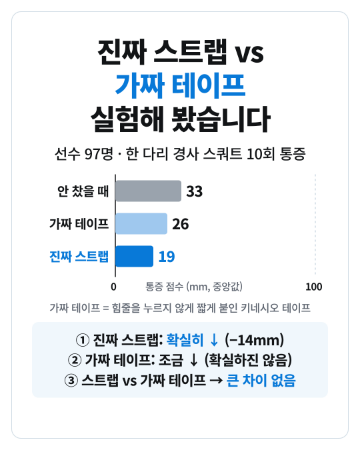
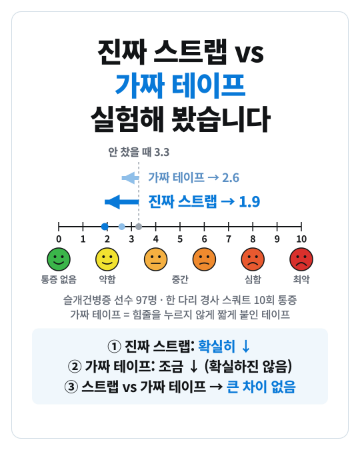
Patellar strap card 03: 0-10 face pain scale with arrows from no-strap to strap/placebo
Claude-Session: https://claude.ai/code/session_01GjYRY9i7LLGWcysU9DHVMw

Changed region(s): [[0.1222, 0.3111, 0.9167, 0.9022]]

diff --git a/content/patellar-strap-runners/source/charts/vas.html b/content/patellar-strap-runners/source/charts/vas.html
@@ -1,25 +1,30 @@
 <!doctype html><html lang="ko"><head><meta charset="utf-8"><style>
 @font-face{font-family:'Noto Sans KR';src:url('../../../../templates/fonts/NotoSansKR-VF.ttf');font-weight:100 900}
 html,body{margin:0;padding:0;background:#fff}
-.c{position:relative;width:888px;height:400px;font-family:'Noto Sans KR',sans-serif;color:#121416;overflow:hidden}
+.c{position:relative;width:888px;height:440px;font-family:'Noto Sans KR',sans-serif;color:#121416;overflow:hidden}
 .t{position:absolute;letter-spacing:-.03em;line-height:1.2;white-space:nowrap}
+.n{top:270px;width:60px;text-align:center;font-size:28px;font-weight:700}
+.k{top:392px;width:160px;text-align:center;font-size:28px;font-weight:650;color:#5e6570}
 svg{position:absolute;left:0;top:0}
 </style></head><body><div class="c">
-<!-- 0~100mm 축: x 250~850 (6px/mm). 값 = de Vries 2016 Table 2, 한 다리 경사 스쿼트 10회 중앙값 -->
-<svg width="888" height="400" viewBox="0 0 888 400">
-  <line x1="250" y1="22" x2="250" y2="330" stroke="#121416" stroke-width="3"/>
-  <line x1="850" y1="22" x2="850" y2="330" stroke="#d0dce5" stroke-width="3" stroke-dasharray="6 8"/>
-  <rect x="250" y="40"  width="198" height="64" rx="8" fill="#9aa3ad"/>
-  <rect x="250" y="138" width="156" height="64" rx="8" fill="#9fc8ee"/>
-  <rect x="250" y="236" width="114" height="64" rx="8" fill="#0879d8"/>
+<!-- 0~10 얼굴 통증 척도 (de Vries 2016 Table 2 VAS 0~100mm 중앙값 ÷10): 안 참 3.3, 가짜 테이프 2.6, 스트랩 1.9 -->
+<svg width="888" height="440" viewBox="0 0 888 440">
+ <defs>
+  <marker id="hb" viewBox="0 0 10 10" refX="10" refY="5" markerWidth="3.2" markerHeight="3.2" orient="auto"><path d="M0,0 L10,5 L0,10 z" fill="#0879d8"/></marker>
+  <marker id="hl" viewBox="0 0 10 10" refX="10" refY="5" markerWidth="3.2" markerHeight="3.2" orient="auto"><path d="M0,0 L10,5 L0,10 z" fill="#8fbfe9"/></marker>
+ </defs>
+ <line x1="320.2" y1="56" x2="320.2" y2="250" stroke="#9aa3ad" stroke-width="3" stroke-dasharray="7 7"/>
+ <line x1="320.2" y1="104" x2="269.3" y2="104" stroke="#8fbfe9" stroke-width="12" marker-end="url(#hl)"/>
+ <line x1="320.2" y1="176" x2="218.3" y2="176" stroke="#0879d8" stroke-width="14" marker-end="url(#hb)"/>
+ <line x1="80.0" y1="250" x2="808.0" y2="250" stroke="#121416" stroke-width="4"/>
+ <line x1="80.0" y1="236" x2="80.0" y2="264" stroke="#121416" stroke-width="3"/><line x1="152.8" y1="236" x2="152.8" y2="264" stroke="#121416" stroke-width="3"/><line x1="225.6" y1="236" x2="225.6" y2="264" stroke="#121416" stroke-width="3"/><line x1="298.4" y1="236" x2="298.4" y2="264" stroke="#121416" stroke-width="3"/><line x1="371.2" y1="236" x2="371.2" y2="264" stroke="#121416" stroke-width="3"/><line x1="444.0" y1="236" x2="444.0" y2="264" stroke="#121416" stroke-width="3"/><line x1="516.8" y1="236" x2="516.8" y2="264" stroke="#121416" stroke-width="3"/><line x1="589.6" y1="236" x2="589.6" y2="264" stroke="#121416" stroke-width="3"/><line x1="662.4" y1="236" x2="662.4" y2="264" stroke="#121416" stroke-width="3"/><line x1="735.2" y1="236" x2="735.2" y2="264" stroke="#121416" stroke-width="3"/><line x1="808.0" y1="236" x2="808.0" y2="264" stroke="#121416" stroke-width="3"/>
+ <circle cx="320.2" cy="250" r="10" fill="#9aa3ad"/>
+ <circle cx="269.3" cy="250" r="10" fill="#8fbfe9"/>
+ <circle cx="218.3" cy="250" r="11" fill="#0879d8"/>
+ <g transform="translate(80.0,348)"><circle r="34" fill="#3BB54A" stroke="#121416" stroke-width="3"/><circle cx="-11" cy="-8" r="4" fill="#121416"/><circle cx="11" cy="-8" r="4" fill="#121416"/><path d="M-14,8 Q0,20 14,8" fill="none" stroke="#121416" stroke-width="3.5" stroke-linecap="round"/></g><g transform="translate(225.6,348)"><circle r="34" fill="#F2E230" stroke="#121416" stroke-width="3"/><circle cx="-11" cy="-8" r="4" fill="#121416"/><circle cx="11" cy="-8" r="4" fill="#121416"/><path d="M-14,10 Q0,18 14,10" fill="none" stroke="#121416" stroke-width="3.5" stroke-linecap="round"/></g><g transform="translate(371.2,348)"><circle r="34" fill="#F5B041" stroke="#121416" stroke-width="3"/><circle cx="-11" cy="-8" r="4" fill="#121416"/><circle cx="11" cy="-8" r="4" fill="#121416"/><path d="M-13,12 L13,12" fill="none" stroke="#121416" stroke-width="3.5" stroke-linecap="round"/></g><g transform="translate(516.8,348)"><circle r="34" fill="#EF8A2E" stroke="#121416" stroke-width="3"/><circle cx="-11" cy="-8" r="4" fill="#121416"/><circle cx="11" cy="-8" r="4" fill="#121416"/><path d="M-13,14 Q0,8 13,14" fill="none" stroke="#121416" stroke-width="3.5" stroke-linecap="round"/></g><g transform="translate(662.4,348)"><circle r="34" fill="#E8592F" stroke="#121416" stroke-width="3"/><circle cx="-11" cy="-8" r="4" fill="#121416"/><circle cx="11" cy="-8" r="4" fill="#121416"/><path d="M-14,16 Q0,4 14,16" fill="none" stroke="#121416" stroke-width="3.5" stroke-linecap="round"/></g><g transform="translate(808.0,348)"><circle r="34" fill="#D9302C" stroke="#121416" stroke-width="3"/><circle cx="-11" cy="-8" r="4" fill="#121416"/><circle cx="11" cy="-8" r="4" fill="#121416"/><path d="M-15,18 Q0,2 15,18" fill="none" stroke="#121416" stroke-width="3.5" stroke-linecap="round"/></g>
 </svg>
-<div class="t" style="right:658px;top:50px;font-size:38px;font-weight:700">안 찼을 때</div>
-<div class="t" style="right:658px;top:148px;font-size:38px;font-weight:700">가짜 테이프</div>
-<div class="t" style="right:658px;top:246px;font-size:38px;font-weight:800;color:#0879d8">진짜 스트랩</div>
-<div class="t" style="left:462px;top:46px;font-size:44px;font-weight:800">33</div>
-<div class="t" style="left:420px;top:144px;font-size:44px;font-weight:800">26</div>
-<div class="t" style="left:378px;top:242px;font-size:44px;font-weight:850;color:#0879d8">19</div>
-<div class="t" style="left:236px;top:340px;font-size:30px;font-weight:700">0</div>
-<div class="t" style="left:820px;top:340px;font-size:30px;font-weight:700">100</div>
-<div class="t" style="left:340px;top:340px;font-size:30px;font-weight:500;color:#5e6570">통증 점수 (mm, 중앙값)</div>
+<div class="t" style="left:170.2px;width:300px;text-align:center;top:6px;font-size:32px;font-weight:750;color:#5e6570">안 찼을 때 3.3</div>
+<div class="t" style="left:348.2px;top:80px;font-size:36px;font-weight:700;color:#5a8fc4">가짜 테이프 → 2.6</div>
+<div class="t" style="left:348.2px;top:148px;font-size:44px;font-weight:850;color:#0879d8">진짜 스트랩 → 1.9</div>
+<div class="t n" style="left:50.0px">0</div><div class="t n" style="left:122.8px">1</div><div class="t n" style="left:195.6px">2</div><div class="t n" style="left:268.4px">3</div><div class="t n" style="left:341.2px">4</div><div class="t n" style="left:414.0px">5</div><div class="t n" style="left:486.8px">6</div><div class="t n" style="left:559.6px">7</div><div class="t n" style="left:632.4px">8</div><div class="t n" style="left:705.2px">9</div><div class="t n" style="left:778.0px">10</div><div class="t k" style="left:0.0px">통증 없음</div><div class="t k" style="left:145.6px">약함</div><div class="t k" style="left:364.0px">중간</div><div class="t k" style="left:582.4px">심함</div><div class="t k" style="left:728.0px">최악</div>
 </div></body></html>

diff --git a/content/patellar-strap-runners/source/03.html b/content/patellar-strap-runners/source/03.html
@@ -27,7 +27,7 @@ h1,p{margin:0;text-align:center}
 .flow{font-size:42px;font-weight:750;line-height:1.3;letter-spacing:-.03em}
 .arrow{font-size:34px;font-weight:800;line-height:1.05;color:var(--blue)}
 .box{background:var(--tint);border-radius:20px;padding:32px 40px;width:888px}
-</style></head><body><article class="card kind-effect"><svg class="card-frame" width="1080" height="1350" viewBox="0 0 1080 1350" aria-hidden="true"><rect x="35" y="35" width="1010" height="1280" rx="28" fill="none" stroke="#D0DCE5" stroke-width="2"/></svg><h1 class="headline">진짜 스트랩 vs<br><span class="accent">가짜 테이프</span><br>실험해 봤습니다</h1><div style="height:24px;flex:none"></div><p class="body">선수 97명 · 한 다리 경사 스쿼트 10회 통증</p><div style="height:8px;flex:none"></div><div class="photo" style="height:400px"><img src="../assets/charts/vas.png" alt="경사 스쿼트 통증 중앙값: 안 찼을 때 33, 가짜 테이프 26, 진짜 스트랩 19" style="width:888px;left:0;top:0"></div><p class="note" style="font-size:32px">가짜 테이프 = 힘줄을 누르지 않게 짧게 붙인 키네시오 테이프</p><div style="height:20px;flex:none"></div><div class="box" style="padding:26px 40px;display:flex;flex-direction:column;gap:6px"><p class="flow">① 진짜 스트랩: <span class="accent">확실히 ↓</span> (−14mm)</p><p class="flow">② 가짜 테이프: 조금 ↓ (확실하진 않음)</p><p class="flow">③ 스트랩 vs 가짜 테이프 → <span class="accent">큰 차이 없음</span></p></div></article><script>// ?qa 로 열 때만 실행: contentBottom(실제 마지막 텍스트 줄/이미지), 안전영역, 넘침, 정렬, 폰트 크기를 기록한다.
+</style></head><body><article class="card kind-effect"><svg class="card-frame" width="1080" height="1350" viewBox="0 0 1080 1350" aria-hidden="true"><rect x="35" y="35" width="1010" height="1280" rx="28" fill="none" stroke="#D0DCE5" stroke-width="2"/></svg><h1 class="headline">진짜 스트랩 vs<br><span class="accent">가짜 테이프</span><br>실험해 봤습니다</h1><div style="height:24px;flex:none"></div><div class="photo" style="height:440px"><img src="../assets/charts/vas.png" alt="0~10 얼굴 통증 척도: 안 찼을 때 3.3에서 가짜 테이프 2.6, 진짜 스트랩 1.9로 감소" style="width:888px;left:0;top:0"></div><div style="height:8px;flex:none"></div><p class="note" style="font-size:32px;line-height:1.35">슬개건병증 선수 97명 · 한 다리 경사 스쿼트 10회 통증<br>가짜 테이프 = 힘줄을 누르지 않게 짧게 붙인 테이프</p><div style="height:20px;flex:none"></div><div class="box" style="padding:26px 40px;display:flex;flex-direction:column;gap:6px"><p class="flow">① 진짜 스트랩: <span class="accent">확실히 ↓</span></p><p class="flow">② 가짜 테이프: 조금 ↓ (확실하진 않음)</p><p class="flow">③ 스트랩 vs 가짜 테이프 → <span class="accent">큰 차이 없음</span></p></div></article><script>// ?qa 로 열 때만 실행: contentBottom(실제 마지막 텍스트 줄/이미지), 안전영역, 넘침, 정렬, 폰트 크기를 기록한다.
 if (location.search.includes('qa')) (async () => {
   await document.fonts.ready;
   await Promise.all([...document.images].map(i => i.decode().catch(() => {})));

diff --git a/content/patellar-strap-runners/source/build.py b/content/patellar-strap-runners/source/build.py
@@ -69,14 +69,13 @@ CARDS = [
         '<div class="slot" style="height:580px"><p class="tag">사진 넣는 자리</p>'
         '<p class="guide">스트랩을 찬 무릎 · 정면 또는 옆모습<br>띠가 무릎뼈 바로 아래 힘줄 위를 지나게</p></div>', gap(44),
         '<p class="body">무릎뼈와 정강이를 잇는 <span class="strong">힘줄</span> 위를<br>지나갑니다. 점프·착지에서 이 힘줄이<br>아픈 ‘점퍼 무릎’에서 주로 연구됐습니다.</p>']),
-    # 03 효과 — 실험 결과 (de Vries 2016 Table 2 중앙값)
+    # 03 효과 — 얼굴 통증 척도 (de Vries 2016 Table 2 중앙값 ÷10)
     ('kind-effect', [
         '<h1 class="headline">진짜 스트랩 vs<br><span class="accent">가짜 테이프</span><br>실험해 봤습니다</h1>', gap(24),
-        '<p class="body">선수 97명 · 한 다리 경사 스쿼트 10회 통증</p>', gap(8),
-        '<div class="photo" style="height:400px"><img src="../assets/charts/vas.png" alt="경사 스쿼트 통증 중앙값: 안 찼을 때 33, 가짜 테이프 26, 진짜 스트랩 19" style="width:888px;left:0;top:0"></div>',
-        '<p class="note" style="font-size:32px">가짜 테이프 = 힘줄을 누르지 않게 짧게 붙인 키네시오 테이프</p>', gap(20),
+        '<div class="photo" style="height:440px"><img src="../assets/charts/vas.png" alt="0~10 얼굴 통증 척도: 안 찼을 때 3.3에서 가짜 테이프 2.6, 진짜 스트랩 1.9로 감소" style="width:888px;left:0;top:0"></div>', gap(8),
+        '<p class="note" style="font-size:32px;line-height:1.35">슬개건병증 선수 97명 · 한 다리 경사 스쿼트 10회 통증<br>가짜 테이프 = 힘줄을 누르지 않게 짧게 붙인 테이프</p>', gap(20),
         '<div class="box" style="padding:26px 40px;display:flex;flex-direction:column;gap:6px">'
-        '<p class="flow">① 진짜 스트랩: <span class="accent">확실히 ↓</span> (−14mm)</p>'
+        '<p class="flow">① 진짜 스트랩: <span class="accent">확실히 ↓</span></p>'
         '<p class="flow">② 가짜 테이프: 조금 ↓ (확실하진 않음)</p>'
         '<p class="flow">③ 스트랩 vs 가짜 테이프 → <span class="accent">큰 차이 없음</span></p></div>']),
     # 04 기전 가설 ① 흐름 + X선

diff --git a/content/patellar-strap-runners/assets/asset_manifest.md b/content/patellar-strap-runners/assets/asset_manifest.md
@@ -22,4 +22,4 @@
 - Noto Sans KR VF, RCardnews W500~W850: SIL OFL 1.1. AI 생성 이미지 없음. 데이터 그래프 없음.
 
 ## 데이터 그래픽
-- charts/vas.png(03): 0~100mm VAS 선과 14mm 화살표, 자체 제작(source/charts/vas.html). de Vries 2016 초록 수치. 화살표 시작 위치는 임의(초록에 기준 통증값 없음). Wikimedia “VAS.png”(CC BY 3.0)는 영어·저해상도라 미사용.
+- charts/vas.png(03): 0~10 얼굴 통증 척도(얼굴 6개·눈금·“통증 없음~최악”) + 화살표. 자체 제작(source/charts/vas.html). 값은 de Vries 2016 원문 Table 2의 한 다리 경사 스쿼트 10회 VAS 중앙값(0~100mm)을 10으로 나눠 환산: 안 참 33→3.3, 가짜 테이프 26→2.6, 스트랩 19→1.9. “안 찼을 때”는 같은 날 아무것도 안 찬 조건이며 연구 시작 전 통증이 아님. 사용자가 보여 준 영어 얼굴 척도 이미지는 출처·사용권 불명이라 그대로 쓰지 않고 같은 형식으로 새로 그림.
